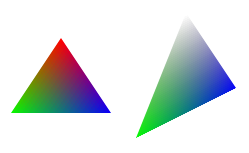
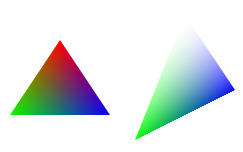
Simplified triangle draw usage

diff --git a/canvasTriangleGradient.html b/canvasTriangleGradient.html
@@ -5,16 +5,14 @@
     3 color gradients on canvas triangles
 
     Change 'resolution', 'sizeSquare' and
-    'aliasing' to set performance/quality
-
-    Use aliasing to improve joints
+    to set performance/quality
 
     This is how it works:
-        - Create one image with the gradient
+        - Create one texture with the gradient
         - Project the resulting texture
   -->
 	<head>
-		<title>Test</title>
+		<title></title>
 		<style>
 			body { margin: 0; }
 			canvas { width: 100%; height: 100% }
@@ -24,17 +22,10 @@
         <canvas id='cns' width='300' height='300'
                 style="display: block; height: 300px; width: 300px;"></canvas>
 		<script>
-            const trSettings = function (resolution, square) {
-                this.resolution = resolution;   // Multiple of 100
-                this.square = square;           // Multiple of 10 and < resolution
-            }
-            const trPosition = function (x, y) { this.x = x; this.y = y; }
-            const trDraw = function (ctx, p0, p1, p2, c0, c1, c2, settings) {
+            const trDraw = function (ctx, p0, p1, p2, resolution, sizeSquare) {
 
                 // Set resolution
-                var resolution = settings.resolution,
-                    sizeSquare = settings.square,
-                    sizeArray = resolution / sizeSquare,
+                var sizeArray = resolution / sizeSquare,
                     sideGradient0 = new Array(sizeArray),
                     sideGradient1 = new Array(sizeArray),
                     x = 0, y = 0;
@@ -45,10 +36,10 @@
                     var gR = 0, gG = 0, gB = 0, gA = 0, 
                         x = 0, out = new Array(steps); 
 
-                    gR = (c0[0] > c1[0]) ? -(c0[0] - c1[0]) : (c1[0] - c0[0]);
-                    gG = (c0[1] > c1[1]) ? -(c0[1] - c1[1]) : (c1[1] - c0[1]);
-                    gB = (c0[2] > c1[2]) ? -(c0[2] - c1[2]) : (c1[2] - c0[2]);
-                    gA = (c0[3] > c1[3]) ? -(c0[3] - c1[3]) : (c1[3] - c0[3]);
+                    gR = (c0.r > c1.r) ? -(c0.r - c1.r) : (c1.r - c0.r);
+                    gG = (c0.g > c1.g) ? -(c0.g - c1.g) : (c1.g - c0.g);
+                    gB = (c0.b > c1.b) ? -(c0.b - c1.b) : (c1.b - c0.b);
+                    gA = (c0.a > c1.a) ? -(c0.a - c1.a) : (c1.a - c0.a);
 
                     gR = gR / steps;
                     gG = gG / steps;
@@ -56,12 +47,12 @@
                     gA = gA / steps;
 
                     for (x = 0; x < steps; x = x + 1) {
-                        out[x] = [
-                            parseInt(c0[0] + gR * x, 10),
-                            parseInt(c0[1] + gG * x, 10), 
-                            parseInt(c0[2] + gB * x, 10),
-                            c0[3] + gA * x 
-                        ];
+                        out[x] = {
+                            r: parseInt(c0.r + gR * x, 10),
+                            g: parseInt(c0.g + gG * x, 10), 
+                            b: parseInt(c0.b + gB * x, 10),
+                            a: c0.a + gA * x 
+                        };
                     }
 
                     return out;
@@ -78,8 +69,8 @@
                 texCtx.clearRect(0, 0, resolution, resolution);
 
                 // Get side gradients
-                sideGradient0 = getGradient(c0, c2, sizeArray);
-                sideGradient1 = getGradient(c1, c2, sizeArray);
+                sideGradient0 = getGradient({ r: p0.r, g: p0.g, b: p0.b, a: p0.a }, { r: p2.r, g: p2.g, b: p2.b, a: p2.a }, sizeArray);
+                sideGradient1 = getGradient({ r: p1.r, g: p1.g, b: p1.b, a: p1.a }, { r: p2.r, g: p2.g, b: p2.b, a: p2.a }, sizeArray);
 
                 // Draw texture
                 for (y = 0; y < sizeArray; y = y + 1) {
@@ -89,10 +80,10 @@
                         limit = gradient.length - 1;
 
                     for (x = 0; x < gradient.length; x = x + 1) {
-                        var R = gradient[x][0],
-                            G = gradient[x][1],
-                            B = gradient[x][2],
-                            A = gradient[x][3],
+                        var R = gradient[x].r,
+                            G = gradient[x].g,
+                            B = gradient[x].b,
+                            A = gradient[x].a,
                             posX = x * sizeSquare;
 
                         texCtx.fillStyle = 'rgba(' + R + ',' + G + ',' +  B + ',' + A +')';
@@ -137,22 +128,19 @@
                 // document.body.appendChild(texCanvas);
             };
 
-            var canvas = document.getElementById("cns");
-            var ctx = canvas.getContext("2d");
+            var canvas = document.getElementById("cns"),
+				ctx = canvas.getContext("2d"),
+				p0 = { x: 75, y: 50, r:255, g:  0, b:  0, a: 1 },
+				p1 = { x: 25, y:125, r:  0, g:255, b:  0, a: 1 },
+				p2 = { x:125, y:125, r:  0, g:  0, b:255, a: 1 },
 
-            var st = new trSettings(300, 10);
+				p3 = { x:200, y: 25, r:255, g:255, b:255, a: 0 },
+				p4 = { x:150, y:150, r:  0, g:255, b:  0, a: 1 },
+				p5 = { x:250, y:100, r:  0, g:  0, b:255, a: 1 };
 
-            var p0 = new trPosition(75, 50);
-            var p1 = new trPosition(25, 125);
-            var p2 = new trPosition(125, 125);
-            trDraw(ctx, p0, p1, p2, [255, 0, 0, 1], [0, 255, 0, 1], [0, 0, 255, 1], st);
+            trDraw(ctx, p0, p1, p2, 300, 10);
+            trDraw(ctx, p3, p4, p5, 500, 10);
 
-            st = new trSettings(500, 10);
-
-            var p3 = new trPosition(200, 25);
-            var p4 = new trPosition(150, 150);
-            var p5 = new trPosition(250, 100);
-            trDraw(ctx, p3, p4, p5, [0, 0, 0, 0], [0, 255, 0, 1], [0, 0, 255, 1], st);
 		</script>
 	</body>
 </html>
